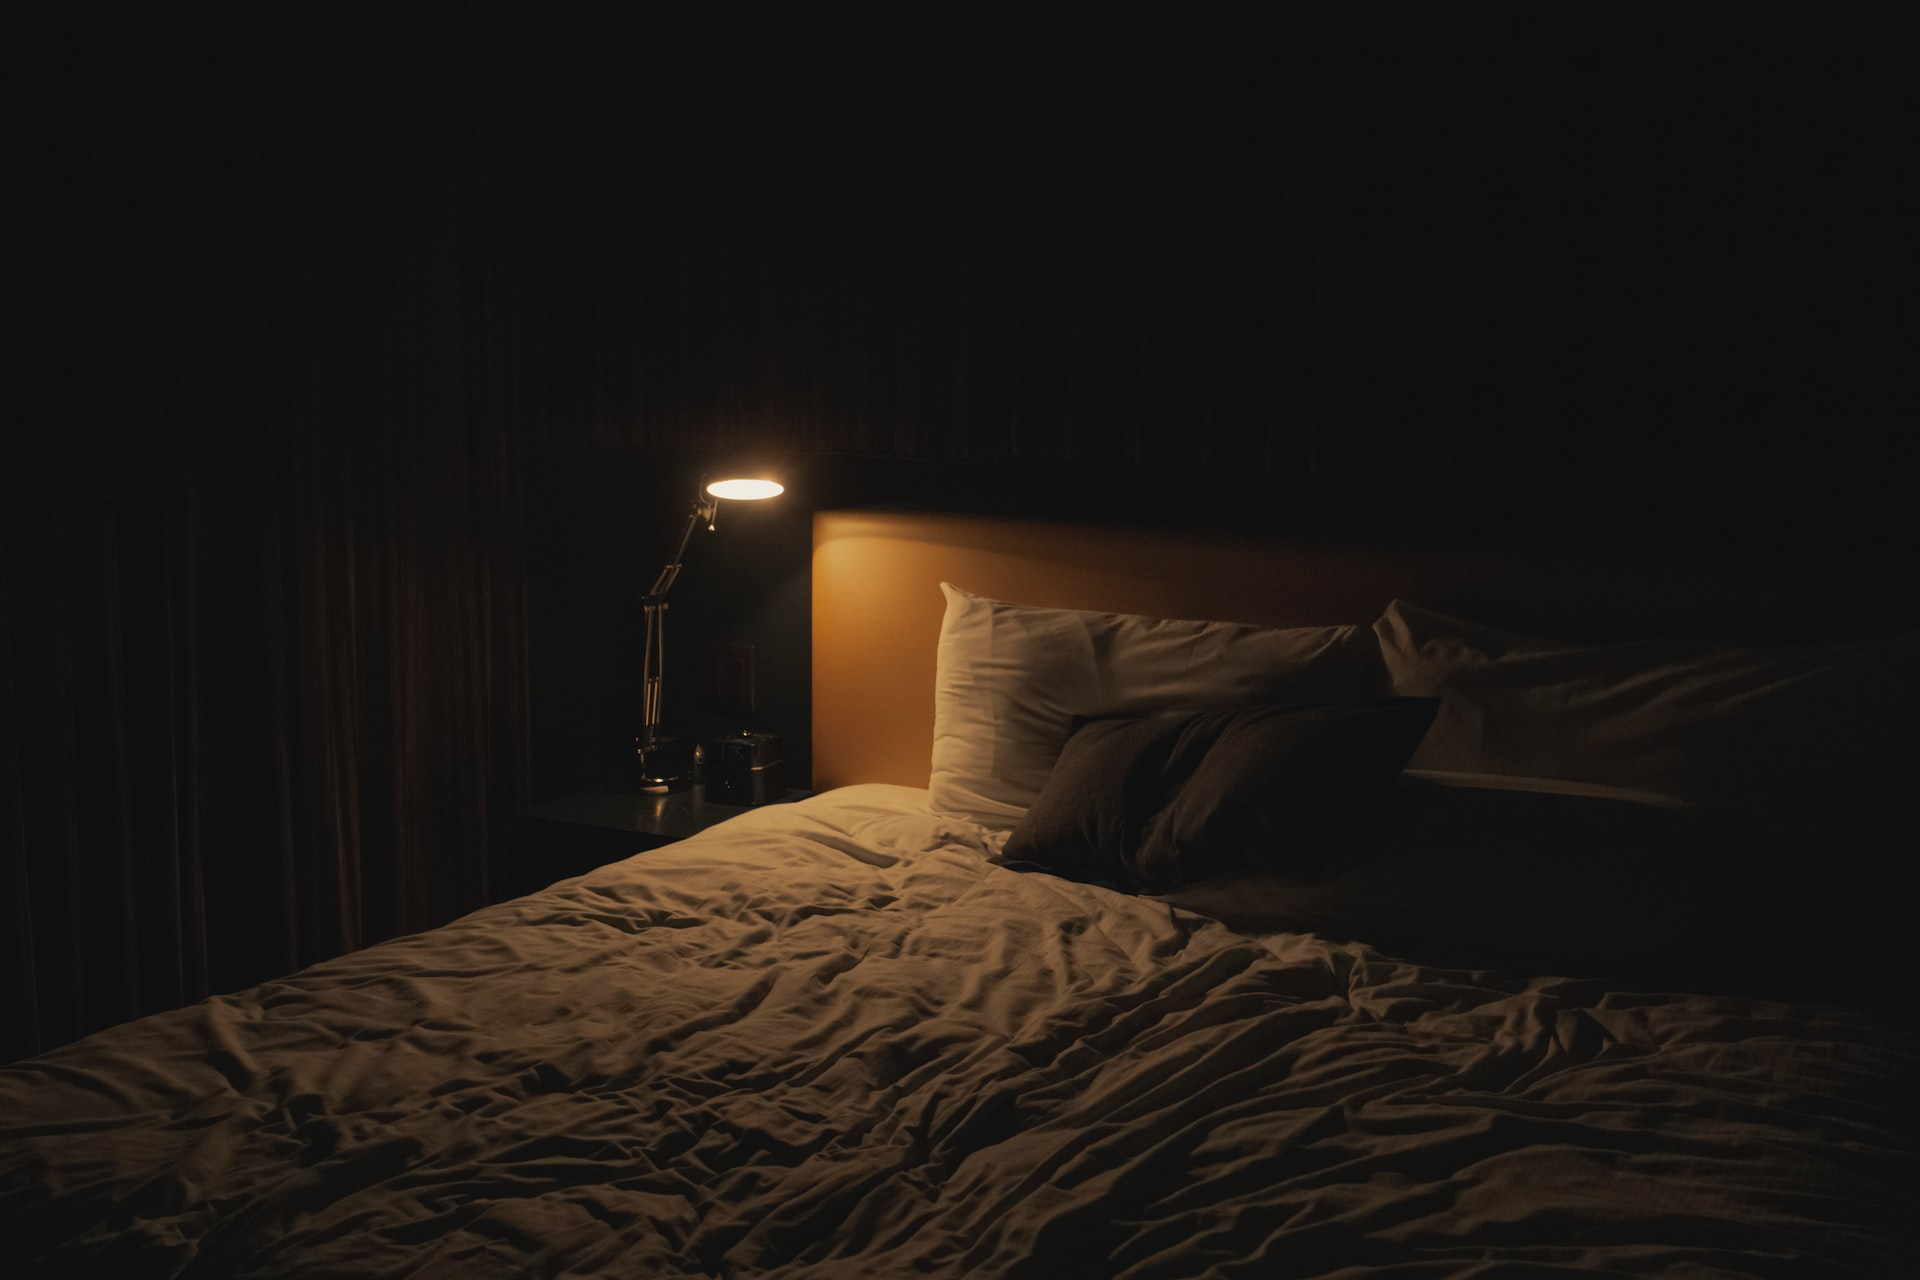
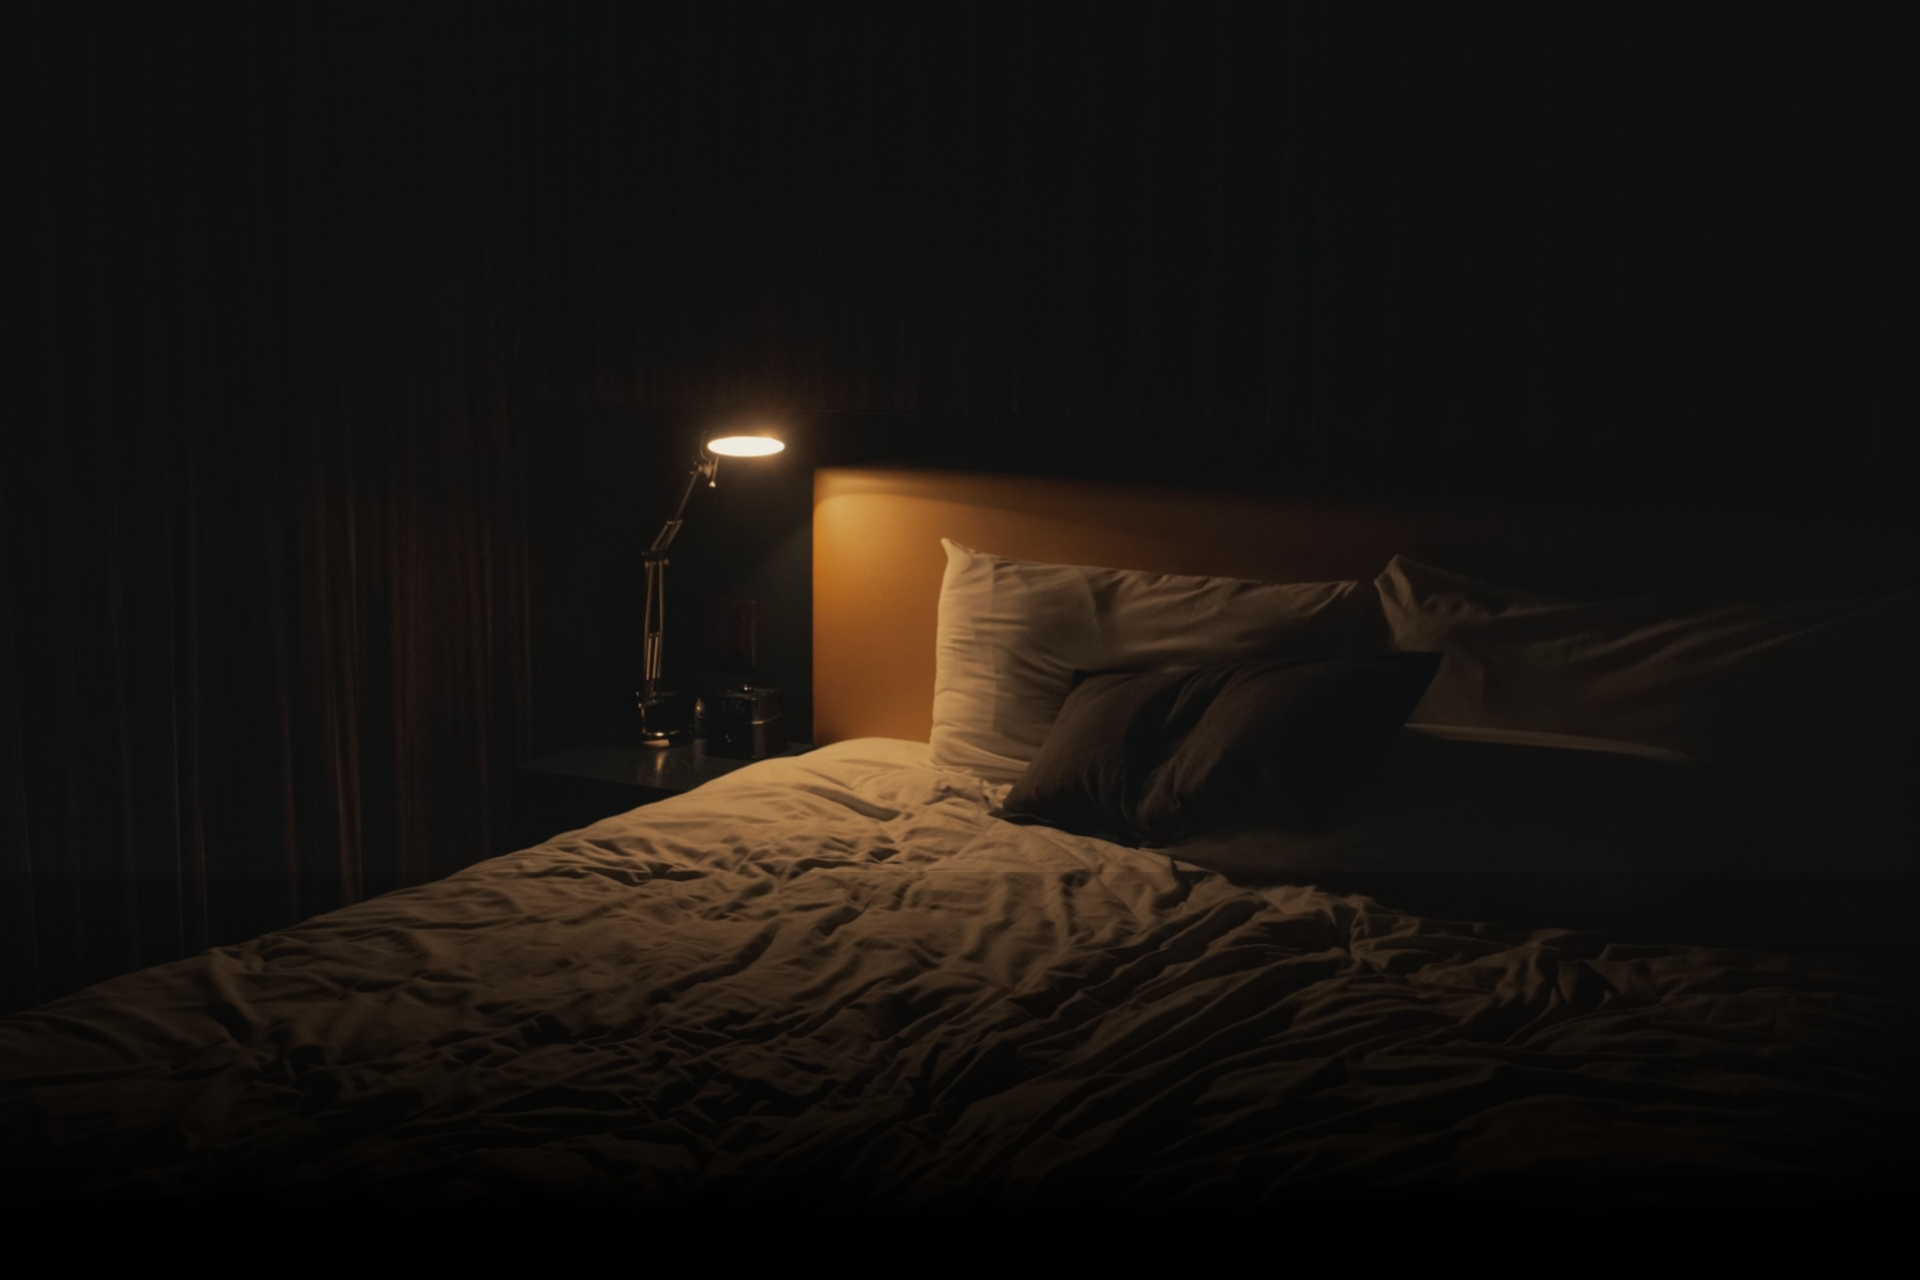
ganti background

Changed region(s): [[0.0, 0.3125, 0.9375, 1.0], [0.75, 0.5938, 0.8438, 0.625]]

diff --git a/css/style.css b/css/style.css
@@ -87,18 +87,19 @@ body {
   background-image: url('../assets/image/kamar.jpg') ;
   background-repeat: no-repeat;
   background-size: cover;
+  object-fit: cover;
   background-position: center;
 }
 
-.hero::after {
+/* .hero::after {
   content: '';
   display: block;
   position: absolute;
   width: 100%;
   height: 30%;
-  bottom: 0;
+  bottom: -200px;
   background: linear-gradient(0deg, rgba(1,1,3,1) 8%, rgba(255,255,255,0) 50%);
-}
+} */
 
 .hero .content {
   padding: 1rem 7%;
